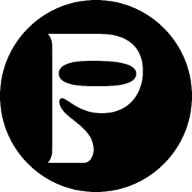
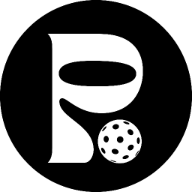
feat: put the Picklrz mark on the landing page and scoreboard
Replace the favicon and header wordmark, lead the home page with open play and tournament mode, and make the public board easier to follow.

Changed region(s): [[0.5, 0.5938, 0.75, 0.875]]

diff --git a/src/components/tournament/tournament-board.tsx b/src/components/tournament/tournament-board.tsx
@@ -2,6 +2,7 @@
 
 import Link from "next/link";
 import { useEffect, useState } from "react";
+import { Tabs, TabsContent, TabsList, TabsTrigger } from "@/components/ui/tabs";
 import {
   bracketChampion,
   bracketColumns,
@@ -22,8 +23,9 @@ import {
   type TournamentSponsor,
   type TournamentState,
 } from "@/engine/tournament";
-import { tournamentEventFromDocument } from "@/lib/tournament-document";
+import { PRODUCT_NAME } from "@/lib/facility";
 import { createClient } from "@/lib/supabase/client";
+import { tournamentEventFromDocument } from "@/lib/tournament-document";
 import { cn } from "@/lib/utils";
 
 export function TournamentBoard({
@@ -34,6 +36,7 @@ export function TournamentBoard({
   initialEvent: TournamentEvent;
 }) {
   const [event, setEvent] = useState(initialEvent);
+  const [pickedId, setPickedId] = useState<string | null>(null);
 
   useEffect(() => {
     const supabase = createClient();
@@ -61,6 +64,8 @@ export function TournamentBoard({
   const playing = event.categories.filter(
     (category) => category.phase !== "setup",
   );
+  const selected =
+    playing.find((category) => category.id === pickedId) ?? playing[0] ?? null;
   const onCourt = playing.flatMap((category) => {
     const stage = category.phase === "bracket" ? "bracket" : "groups";
     return category.matches
@@ -90,14 +95,19 @@ export function TournamentBoard({
       >
         <header className="flex flex-wrap items-end justify-between gap-4 border-b border-white/10 pb-6">
           <div>
-            <p className="text-sm tracking-wide text-[var(--highlight)]">
+            <span
+              className="brand-mark brand-mark-on-board"
+              role="img"
+              aria-label={PRODUCT_NAME}
+            />
+            <h1 className="mt-3 font-[family-name:var(--font-display)] text-4xl md:text-6xl">
+              {event.name.trim() || "Club tournament"}
+            </h1>
+            <p className="mt-2 text-sm tracking-wide text-[var(--highlight)]">
               {event.categories
                 .map((category) => displayDivision(category))
                 .join(" · ")}
             </p>
-            <h1 className="font-[family-name:var(--font-display)] text-4xl md:text-6xl">
-              {event.name.trim() || "Club tournament"}
-            </h1>
           </div>
           <div className="text-right text-sm text-white/60">
             <div>
@@ -126,18 +136,6 @@ export function TournamentBoard({
           </p>
         ) : (
           <>
-            {playing.map((category) => {
-              const champion = bracketChampion(category);
-              if (!champion) return null;
-              return (
-                <p
-                  key={category.id}
-                  className="font-[family-name:var(--font-display)] text-3xl text-[var(--highlight)] md:text-5xl"
-                >
-                  {champion.name} won {displayDivision(category)}
-                </p>
-              );
-            })}
             <section className="space-y-4">
               <h2 className="text-sm uppercase tracking-[0.2em] text-white/50">
                 On court
@@ -162,25 +160,52 @@ export function TournamentBoard({
                 </div>
               )}
             </section>
-            {playing.map((category) => (
-              <section key={category.id} className="space-y-4">
-                <h2 className="font-[family-name:var(--font-display)] text-3xl">
-                  {displayDivision(category)}
-                </h2>
-                {category.phase === "bracket" ? (
-                  <BracketStrip state={category} />
-                ) : null}
-                <div className="grid gap-4 lg:grid-cols-2">
-                  {category.groups.map((group) => (
-                    <GroupCard
-                      key={`${category.id}:${group.id}`}
-                      state={category}
-                      groupId={group.id}
-                    />
+            {selected ? (
+              <Tabs value={selected.id} onValueChange={setPickedId}>
+                <TabsList
+                  aria-label="Categories"
+                  className="!border-white/10 !bg-white/5"
+                >
+                  {playing.map((category) => (
+                    <TabsTrigger
+                      key={category.id}
+                      value={category.id}
+                      className="text-white/70 hover:!text-white data-[state=active]:!bg-[var(--highlight)] data-[state=active]:!text-[var(--ink)] data-[state=active]:!shadow-none"
+                    >
+                      {displayDivision(category)}
+                    </TabsTrigger>
                   ))}
-                </div>
-              </section>
-            ))}
+                </TabsList>
+                {playing.map((category) => {
+                  const champion = bracketChampion(category);
+                  return (
+                    <TabsContent
+                      key={category.id}
+                      value={category.id}
+                      className="space-y-4"
+                    >
+                      {champion ? (
+                        <p className="font-[family-name:var(--font-display)] text-3xl text-[var(--highlight)] md:text-5xl">
+                          {champion.name} won {displayDivision(category)}
+                        </p>
+                      ) : null}
+                      {category.phase === "bracket" ? (
+                        <BracketStrip state={category} />
+                      ) : null}
+                      <div className="grid gap-4 lg:grid-cols-2">
+                        {category.groups.map((group) => (
+                          <GroupCard
+                            key={`${category.id}:${group.id}`}
+                            state={category}
+                            groupId={group.id}
+                          />
+                        ))}
+                      </div>
+                    </TabsContent>
+                  );
+                })}
+              </Tabs>
+            ) : null}
           </>
         )}
       </div>
@@ -337,16 +362,45 @@ function CourtTile({
       <p className="text-sm text-white/50">
         Play to {pointsToWin(state, match)}
       </p>
-      <p className="text-lg">{teamName(state, match.teamAId)}</p>
-      <p className="text-lg text-white/80">{teamName(state, match.teamBId)}</p>
-      {match.live?.serving ? (
-        <p className="mt-3 font-[family-name:var(--font-display)] text-4xl tabular-nums text-[var(--highlight)]">
-          {match.live.scoreA}
-          <span className="mx-2 text-white/30">–</span>
-          {match.live.scoreB}
-        </p>
-      ) : null}
+      <ScoreLine
+        name={teamName(state, match.teamAId)}
+        score={match.live?.serving ? match.live.scoreA : null}
+      />
+      <ScoreLine
+        name={teamName(state, match.teamBId)}
+        score={match.live?.serving ? match.live.scoreB : null}
+        muted
+      />
     </article>
+  );
+}
+
+function ScoreLine({
+  name,
+  score,
+  muted = false,
+}: {
+  name: string;
+  score: number | null;
+  muted?: boolean;
+}) {
+  return (
+    <div className="flex items-center justify-between gap-3 py-0.5">
+      <span
+        className={
+          muted
+            ? "min-w-0 truncate text-lg text-white/80"
+            : "min-w-0 truncate text-lg"
+        }
+      >
+        {name}
+      </span>
+      {score != null ? (
+        <span className="shrink-0 font-[family-name:var(--font-display)] text-4xl leading-none tabular-nums text-[var(--highlight)]">
+          {score}
+        </span>
+      ) : null}
+    </div>
   );
 }
 

diff --git a/src/app/page.tsx b/src/app/page.tsx
@@ -16,15 +16,37 @@ export default async function HomePage() {
 
   const ctaHref = signedIn ? "/dashboard" : "/login";
   const ctaLabel = signedIn ? "Open dashboard" : "Host login";
+  const tournamentHref = signedIn ? "/tournament" : "/login?next=/tournament";
+  const liveCourts = [
+    {
+      court: "Court 1",
+      a: "Alex & Blake",
+      b: "Casey & Drew",
+      scoreA: 8,
+      scoreB: 6,
+    },
+    {
+      court: "Court 2",
+      a: "Eden & Finley",
+      b: "Gray & Harper",
+      scoreA: 4,
+      scoreB: 7,
+    },
+    {
+      court: "Court 3",
+      a: "Indie & Jordan",
+      b: "Kai & Logan",
+      scoreA: 10,
+      scoreB: 9,
+    },
+  ];
 
   return (
     <main className="relative overflow-hidden">
       <div className="hero-wash pointer-events-none absolute inset-0" />
 
       <nav className="relative z-10 mx-auto flex max-w-6xl items-center justify-between px-6 py-6">
-        <div className="font-[family-name:var(--font-logo)] text-3xl leading-none">
-          {PRODUCT_NAME}
-        </div>
+        <div className="brand-mark" role="img" aria-label={PRODUCT_NAME} />
         <Button asChild>
           <Link href={ctaHref}>{ctaLabel}</Link>
         </Button>
@@ -35,12 +57,12 @@ export default async function HomePage() {
           <p className="text-sm uppercase tracking-[0.28em] text-[var(--accent)]">
             Pickleball open play OS
           </p>
-          <h1 className="font-[family-name:var(--font-logo)] text-6xl leading-none md:text-8xl">
-            {PRODUCT_NAME}
+          <h1 className="max-w-xl text-5xl font-semibold leading-[1.05] tracking-tight text-[var(--ink)] md:text-6xl">
+            Run open play without the whiteboard.
           </h1>
           <p className="max-w-xl text-lg text-[var(--muted)]">
-            Fair rotations. Live queues. Phone + TV wallboards. Run multi-court
-            open play without the whiteboard chaos.
+            Fair rotations and a live board for every court, on phones and the
+            gym TV.
           </p>
           <div className="flex flex-wrap gap-3">
             <Button size="lg" asChild>
@@ -56,21 +78,30 @@ export default async function HomePage() {
               Court board
             </p>
             <div className="grid gap-3">
-              {["Court 1", "Court 2", "Court 3"].map((court, i) => (
+              {liveCourts.map((court, i) => (
                 <div
-                  key={court}
+                  key={court.court}
                   className="rounded-xl border border-white/10 bg-white/5 p-4 backdrop-blur"
                   style={{ animationDelay: `${i * 80}ms` }}
                 >
                   <div className="mb-2 flex justify-between text-sm">
-                    <span>{court}</span>
+                    <span>{court.court}</span>
                     <span className="text-[var(--highlight)]">LIVE</span>
                   </div>
-                  <div className="text-sm text-white/80">
-                    {i === 0 && "Alex & Blake vs Casey & Drew"}
-                    {i === 1 && "Eden & Finley vs Gray & Harper"}
-                    {i === 2 && "Indie & Jordan vs Kai & Logan"}
-                  </div>
+                  {[
+                    [court.a, court.scoreA],
+                    [court.b, court.scoreB],
+                  ].map(([name, score]) => (
+                    <div
+                      key={name}
+                      className="flex items-center justify-between gap-3 py-0.5"
+                    >
+                      <span className="text-sm text-white/80">{name}</span>
+                      <span className="font-[family-name:var(--font-display)] text-3xl leading-none tabular-nums text-[var(--highlight)]">
+                        {score}
+                      </span>
+                    </div>
+                  ))}
                 </div>
               ))}
             </div>
@@ -101,6 +132,49 @@ export default async function HomePage() {
               <p className="text-[var(--muted)]">{item.body}</p>
             </article>
           ))}
+        </div>
+      </section>
+
+      <section className="relative z-10 border-t border-[var(--border)] py-16">
+        <div className="mx-auto grid max-w-6xl items-center gap-10 px-6 md:grid-cols-[1.1fr_0.9fr]">
+          <div className="space-y-6">
+            <p className="text-sm uppercase tracking-[0.28em] text-[var(--accent)]">
+              Tournament mode
+            </p>
+            <h2 className="max-w-xl text-4xl font-semibold leading-[1.05] tracking-tight text-[var(--ink)] md:text-5xl">
+              Every category, on the courts you have
+            </h2>
+            <p className="max-w-xl text-lg text-[var(--muted)]">
+              Pool play feeds a bracket. An umpire scores from the court, and
+              the public board shows the live score to the gym.
+            </p>
+            <Button size="lg" asChild>
+              <Link href={tournamentHref}>Run a tournament</Link>
+            </Button>
+          </div>
+          <div className="grid gap-6">
+            {[
+              {
+                title: "Categories share the courts",
+                body: "Several divisions play at once. Each one uses the courts you assign, instead of waiting for its own gym.",
+              },
+              {
+                title: "Pools, then a bracket",
+                body: "Advance the top teams. When the draw is short of the next round, leave a bye or take a wild card by wins and point difference.",
+              },
+              {
+                title: "A score from the court",
+                body: "Each umpire updates their own match. Everyone else watches the live score, standings, bracket, sponsors, and club results.",
+              },
+            ].map((item) => (
+              <article key={item.title} className="space-y-2">
+                <h3 className="font-[family-name:var(--font-display)] text-2xl">
+                  {item.title}
+                </h3>
+                <p className="text-[var(--muted)]">{item.body}</p>
+              </article>
+            ))}
+          </div>
         </div>
       </section>
     </main>

diff --git a/src/app/globals.css b/src/app/globals.css
@@ -132,6 +132,27 @@
   letter-spacing: 0.04em;
 }
 
+.brand-mark {
+  display: block;
+  height: 4rem;
+  aspect-ratio: 1641 / 612;
+  background-color: var(--foreground);
+  -webkit-mask: url("/picklrz-logo.svg") center / contain no-repeat;
+  mask: url("/picklrz-logo.svg") center / contain no-repeat;
+  mask-mode: alpha;
+}
+
+.brand-mark-on-board {
+  height: 1.75rem;
+  background-color: var(--paper);
+}
+
+@media (min-width: 768px) {
+  .brand-mark-on-board {
+    height: 2.25rem;
+  }
+}
+
 .hero-wash {
   background:
     radial-gradient(circle at 20% 20%, var(--wash-strong), transparent 35%),
